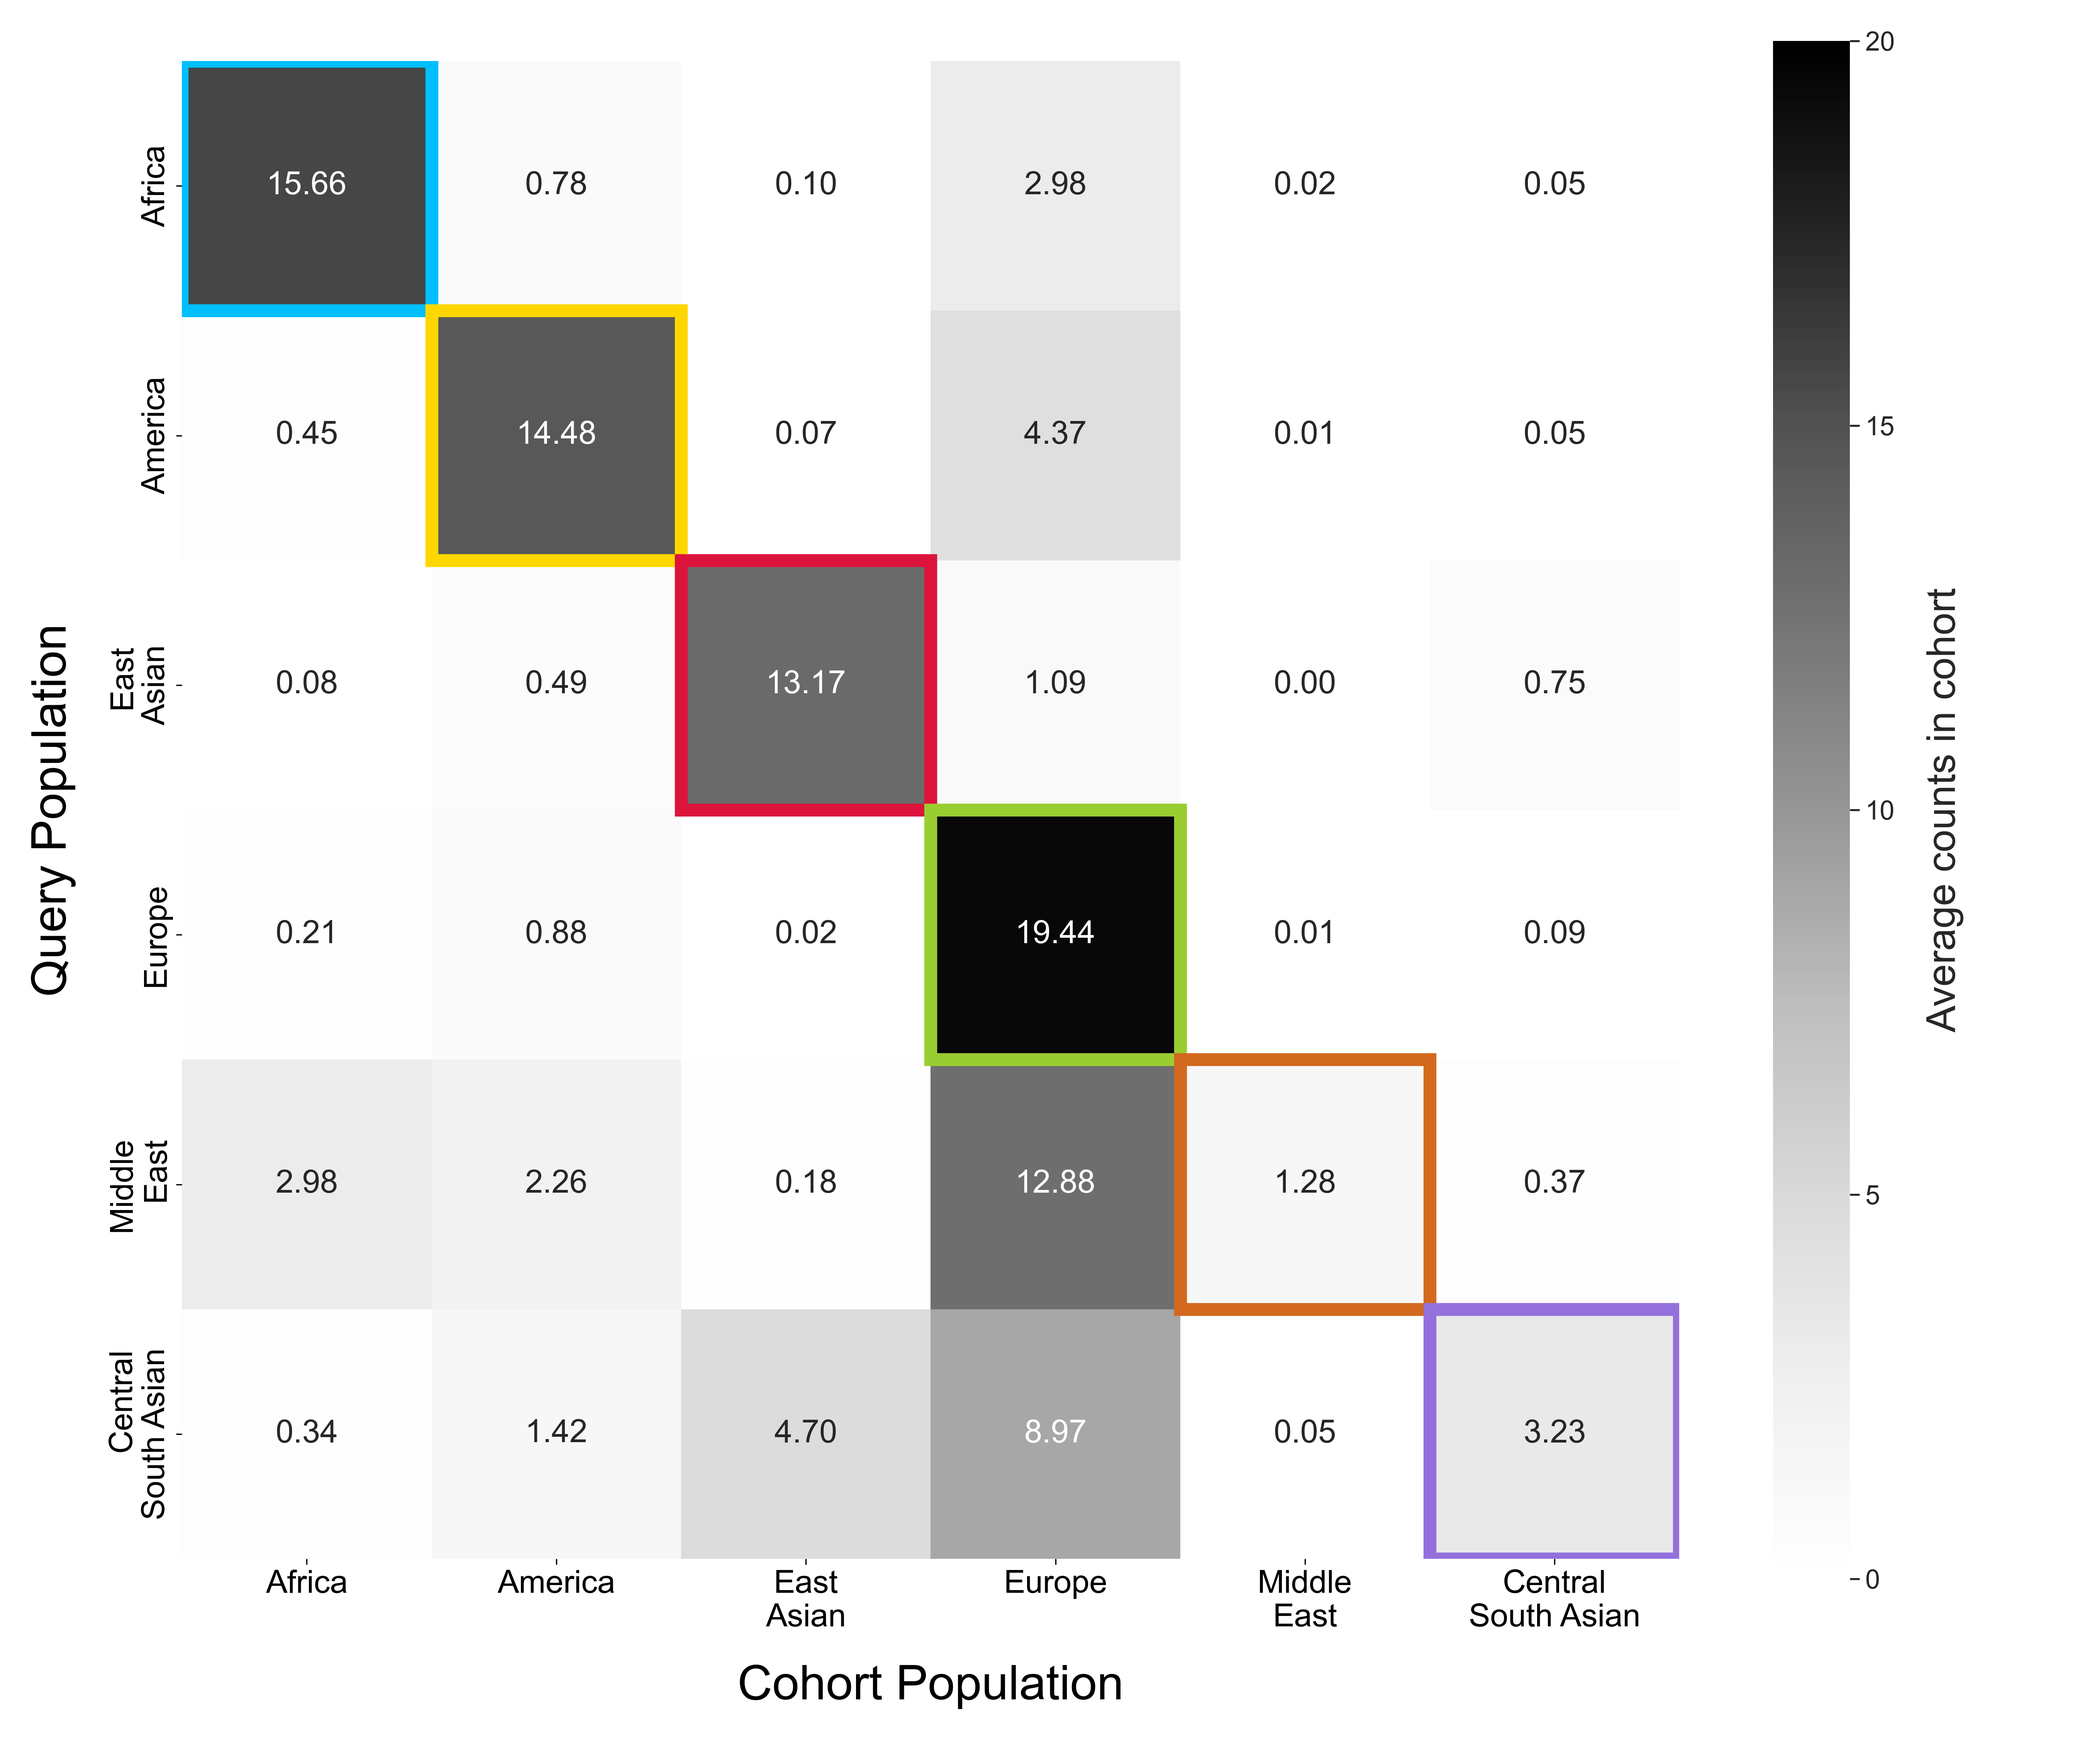
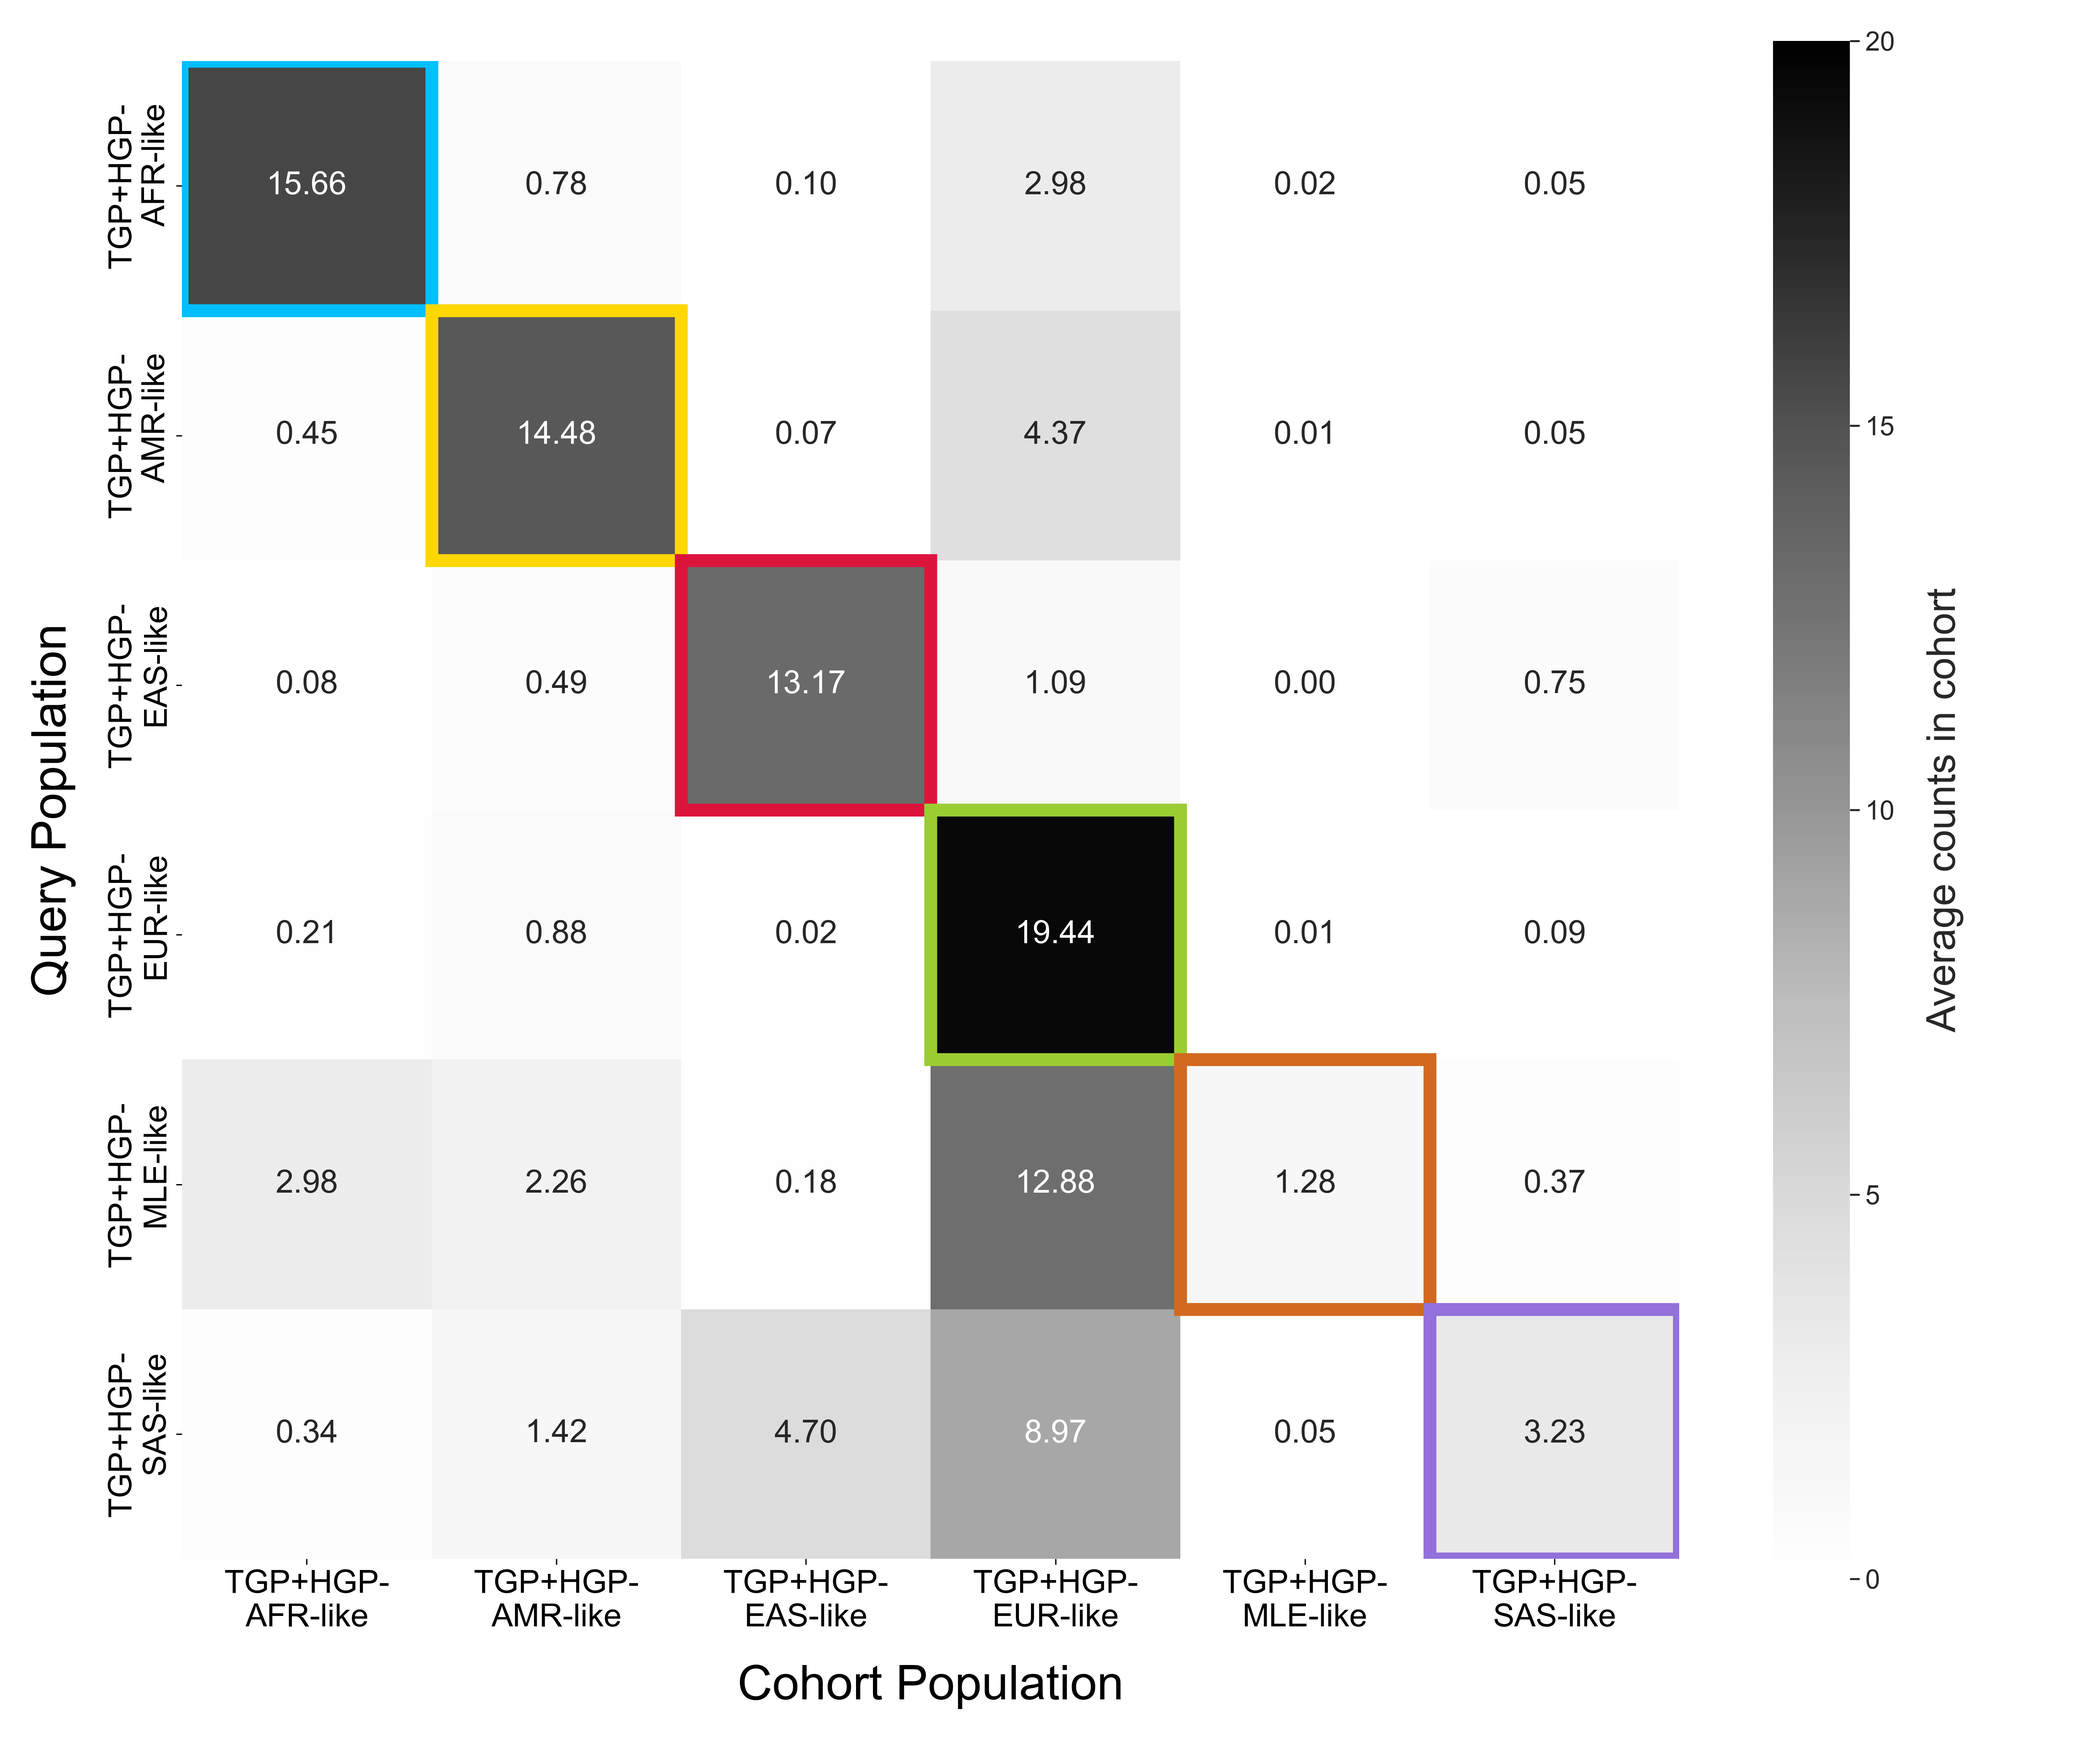
ccpm fst and new group labels

diff --git a/plotting/plot_ccpm_ancestry.py b/plotting/plot_ccpm_ancestry.py
@@ -148,7 +148,14 @@ def plot_data(ancestry_counts, png_file, num_chrom):
     @param png_file: path to the output png file
     '''
     ordered_ancestry = ['Africa', 'America', 'East Asian', 'Europe', 'Middle East', 'Central South Asian']
-    ordered_ancestry_labels = ['Africa', 'America', 'East\nAsian', 'Europe', 'Middle\nEast', 'Central\nSouth Asian']
+    # ordered_ancestry_labels = ['Africa', 'America', 'East\nAsian', 'Europe', 'Middle\nEast', 'Central\nSouth Asian']
+    ordered_ancestry_labels = ['TGP+HGP-\nAFR-like',
+                               'TGP+HGP-\nAMR-like',
+                               'TGP+HGP-\nEAS-like',
+                               'TGP+HGP-\nEUR-like',
+                               'TGP+HGP-\nMLE-like',
+                               'TGP+HGP-\nSAS-like']
+
     # Plot with heatmap ancestry labels as x and y in order
     fig, ax = plt.subplots(figsize=(18, 15), dpi=300)
     # get average counts for each ancestry in order
@@ -193,7 +200,13 @@ def plot_scores(ancestry_scores, png_file):
     @return: None
     '''
     ordered_ancestry = ['Africa', 'America', 'East Asian', 'Europe', 'Middle East', 'Central South Asian']
-    ordered_ancestry_labels = ['Africa', 'America', 'East\nAsian', 'Europe', 'Middle\nEast', 'Central\nSouth Asian']
+    # ordered_ancestry_labels = ['Africa', 'America', 'East\nAsian', 'Europe', 'Middle\nEast', 'Central\nSouth Asian']
+    ordered_ancestry_labels = ['TGP+HGP-\nAFR-like',
+                               'TGP+HGP-\nAMR-like',
+                               'TGP+HGP-\nEAS-like',
+                               'TGP+HGP-\nEUR-like',
+                               'TGP+HGP-\nMLE-like',
+                               'TGP+HGP-\nSAS-like']
 
     # 6 by 6
     fig, ax = plt.subplots(6, 6, figsize=(18, 15), dpi=300, sharex=True, sharey=True)
@@ -203,8 +216,9 @@ def plot_scores(ancestry_scores, png_file):
             # kde plot
             # sns.kdeplot(ancestry_scores[a][b], ax=ax[i, j], color='black')
 
-            # remove background grid
+            # remove background grid and color
             ax[j, i].grid(False)
+            ax[j, i].set_facecolor('white')
             # ax[j, i].set_ylabel('Count', fontsize=10)
             # log scale
             ax[j, i].set_yscale('log')
@@ -216,14 +230,21 @@ def plot_scores(ancestry_scores, png_file):
 
     # add labels along the left side and bottom
     for i, a in enumerate(ordered_ancestry_labels):
-        ax[i, 0].set_ylabel(a, fontsize=20)
+        # ax[i, 0].set_ylabel(a, fontsize=20)
+        # ax[5, i].set_xlabel(a, fontsize=20, labelpad=20)
         ax[5, i].set_xlabel(a, fontsize=20, labelpad=20)
+        ax[i, 0].set_ylabel(a, fontsize=20, labelpad=20)
+        # ax[i, 0].set_xticklabels(ordered_ancestry_labels, fontsize=20)
+        # ax.set_yticklabels(ordered_ancestry_labels, fontsize=20)
         # ax[5, i].set_xlabel(a, fontsize=10)
 
+    # shift whole plot up
+    plt.subplots_adjust(top=0.99)
+
     # add text box at bottom "Cohort Population"
-    fig.text(0.5, 0.04, 'Cohort Population', ha='center', fontsize=30)
+    fig.text(0.5, 0.01, 'Cohort Population', ha='center', fontsize=30)
     # add text box at left "Query Population"
-    fig.text(0.04, 0.5, 'Query Population', va='center', rotation='vertical', fontsize=30)
+    fig.text(0.03, 0.5, 'Query Population', va='center', rotation='vertical', fontsize=30)
 
     # fig.suptitle('Genosis Score Distribution\nCCPM (chrm 1-22)', fontsize=40)
 
@@ -421,21 +442,21 @@ def main():
             ccpm_genosis_scores = read_ccpm_genosis_scores(chrm_genosis_file,
                                                 ccpm_genosis_scores)
 
-    ancestry_counts = organize_ancestry_data(ccpm_ancestry_data,
-                                             ccpm_ancestry,
-                                             ccpm_ancestry_labels)
-
-    # ancestry_scores = organize_genosis_data(ccpm_genosis_scores,
+    # ancestry_counts = organize_ancestry_data(ccpm_ancestry_data,
     #                                          ccpm_ancestry,
     #                                          ccpm_ancestry_labels)
 
+    ancestry_scores = organize_genosis_data(ccpm_genosis_scores,
+                                             ccpm_ancestry,
+                                             ccpm_ancestry_labels)
+
     # Plot the data
     heatmap_png = png_dir + 'ccpm_ancestry.png'
-    # distribution_png = png_dir + 'ccpm_genosis_scores.png'
+    distribution_png = png_dir + 'ccpm_genosis_scores.png'
     # scatter_png = png_dir + 'ccpm_rank_scores_scatter.png'
 
-    plot_data(ancestry_counts, heatmap_png, num_chrom)
-    # plot_scores(ancestry_scores, distribution_png)
+    # plot_data(ancestry_counts, heatmap_png, num_chrom)
+    plot_scores(ancestry_scores, distribution_png)
     # plot_with_rank(ccpm_ancestry_data, ccpm_genosis_scores, ccpm_ancestry, scatter_png)
 
 

diff --git a/plotting/plot_ccpm_fst.py b/plotting/plot_ccpm_fst.py
@@ -1,0 +1,127 @@
+import argparse
+from collections import defaultdict
+import matplotlib.pyplot as plt
+from matplotlib.patches import Rectangle
+import os
+import pandas as pd
+import seaborn as sns
+import scipy.stats as stats
+import random
+
+from plotting import ancestry_helpers
+from src import get_relations
+
+def get_args():
+    parser = argparse.ArgumentParser()
+    parser.add_argument('--ccpm_fst', type=str, help='ccpm fst file', required=True)
+    parser.add_argument('--out_dir', type=str, help='output png', required=True)
+
+    return parser.parse_args()
+
+def read_ccpm_fst(ccpm_fst):
+    all_fst = defaultdict(dict)
+    with open(ccpm_fst, 'r') as f:
+        header = f.readline()
+        for line in f:
+            line = line.strip().split()
+            pop1 = line[0]
+            pop2 = line[1]
+            fst = float(line[2])
+            all_fst[pop1][pop2] = fst
+            all_fst[pop2][pop1] = fst
+
+    # add 0s for the diagonal
+    for pop in all_fst.keys():
+        all_fst[pop][pop] = 0
+
+    return all_fst
+
+def plot_fst(all_fst,
+             out_dir,
+             color_CCPM):
+    '''
+    Heatmpat of FST values
+
+    @param all_fst:
+    @param out_dir:
+    @return:
+    '''
+
+    ordered_ancestry = ['Africa', 'America', 'East', 'Europe', 'Middle', 'Central']
+    ordered_ancestry_labels = ['TGP+HGP-\nAFR-like',
+                               'TGP+HGP-\nAMR-like',
+                               'TGP+HGP-\nEAS-like',
+                               'TGP+HGP-\nEUR-like',
+                               'TGP+HGP-\nMLE-like',
+                               'TGP+HGP-\nSAS-like']
+
+    # plot the heatmap
+    fig, ax = plt.subplots(figsize=(18, 15), dpi=300)
+
+    fst_values = []
+    for pop1 in ordered_ancestry:
+        row = []
+        for pop2 in ordered_ancestry:
+            row.append(all_fst[pop1][pop2])
+        fst_values.append(row)
+
+    # plot heatmap with gray
+    sns.heatmap(fst_values, cmap='gray', ax=ax,
+                square = True,
+                annot = True, fmt = '.4f', annot_kws = {'size': 20},
+                vmin = 0, vmax = .115)
+    sns.set(font_scale=1.5)
+
+    cbar = ax.collections[0].colorbar
+    # cbar.set_ticks([0, 0.02, 0.04, 0.06, 0.08, 0.10, 0.12])
+    # set font size of colorbar
+    cbar.ax.tick_params(labelsize=15)
+    cbar.set_label('FST Value', fontsize=25, labelpad=20)
+
+    ax.set_xticklabels(ordered_ancestry_labels, fontsize=20)
+    ax.set_yticklabels(ordered_ancestry_labels, fontsize=20)
+
+    # add rectangles around the diagonal colors
+    for i, a in enumerate(ordered_ancestry):
+        ax.add_patch(Rectangle((i, i), 1, 1,
+                               fill=False, edgecolor=color_CCPM[a], lw=8))
+
+
+    plt.tight_layout()
+    plt.savefig(out_dir + 'ccpm_fst.png')
+    plt.close()
+
+
+
+def main():
+    args = get_args()
+    ccpm_fst = args.ccpm_fst
+    out_dir = args.out_dir
+
+    ancestry_names = {'Africa': 'Africa',
+                      'America': 'America',
+                      'East': 'East Asia',
+                      'Europe': 'Europe',
+                      'Middle': 'Middle East',
+                      'Central': 'Central South Asian'}
+
+    # add rectangles around the diagonal colors
+    color_CCPM = {'Africa': 'deepskyblue',
+                  'America': 'gold',
+                  'East': 'crimson',
+                  'Europe': 'yellowgreen',
+                  'Middle': 'chocolate',
+                  'Central': 'mediumpurple'}
+
+    all_fst = read_ccpm_fst(ccpm_fst)
+
+    plot_fst(all_fst,
+                out_dir,
+                color_CCPM)
+
+
+
+
+
+if __name__ == '__main__':
+    main()
